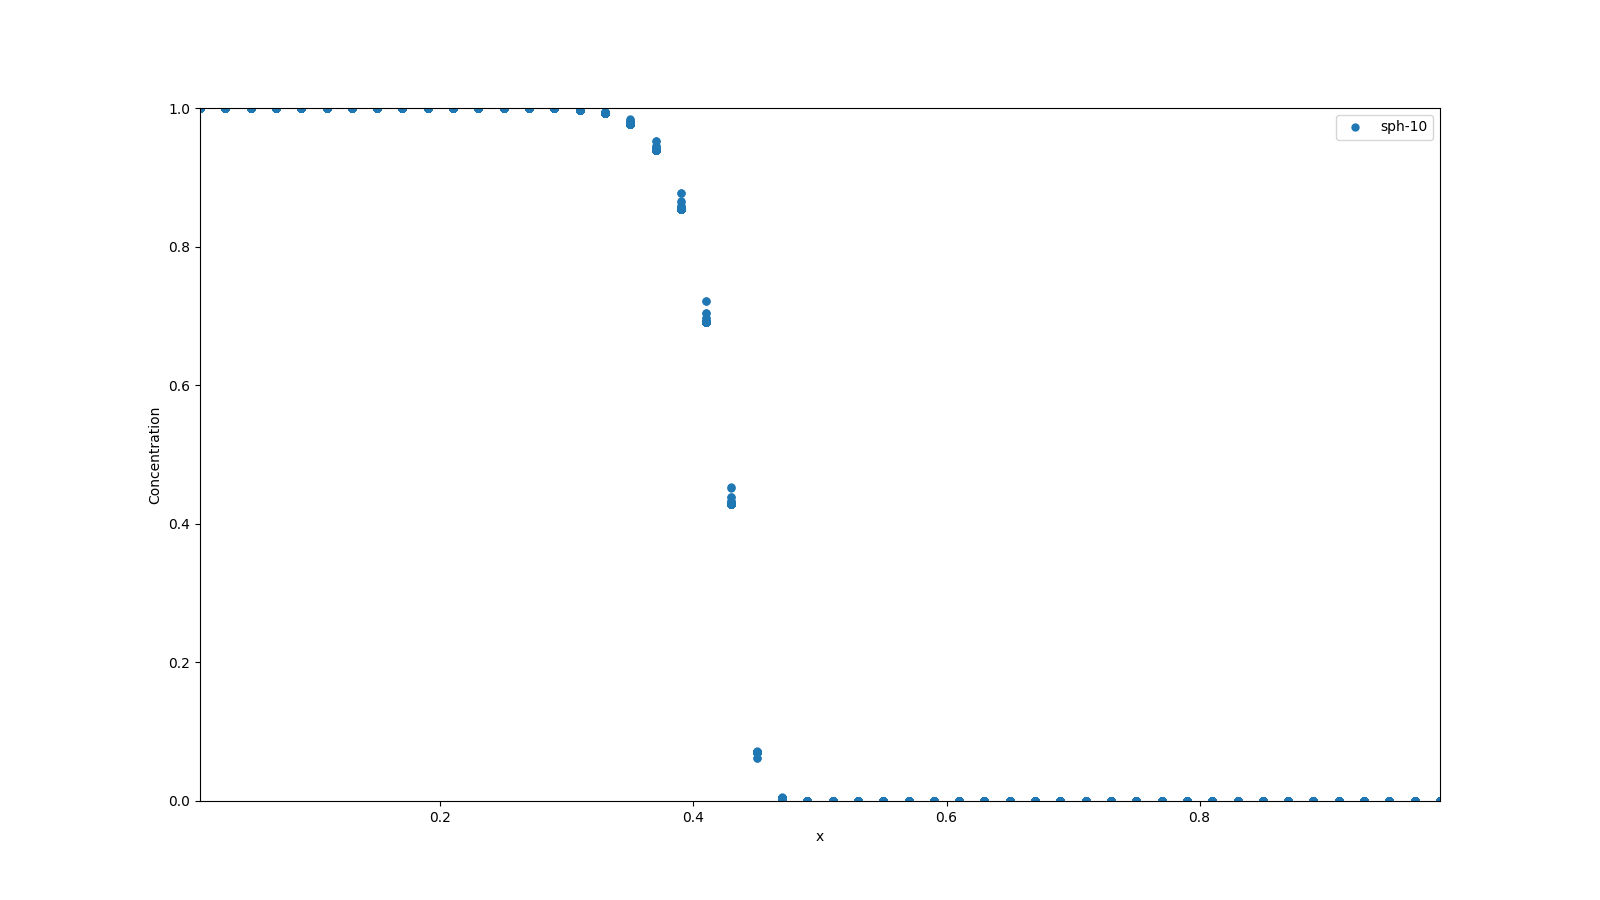
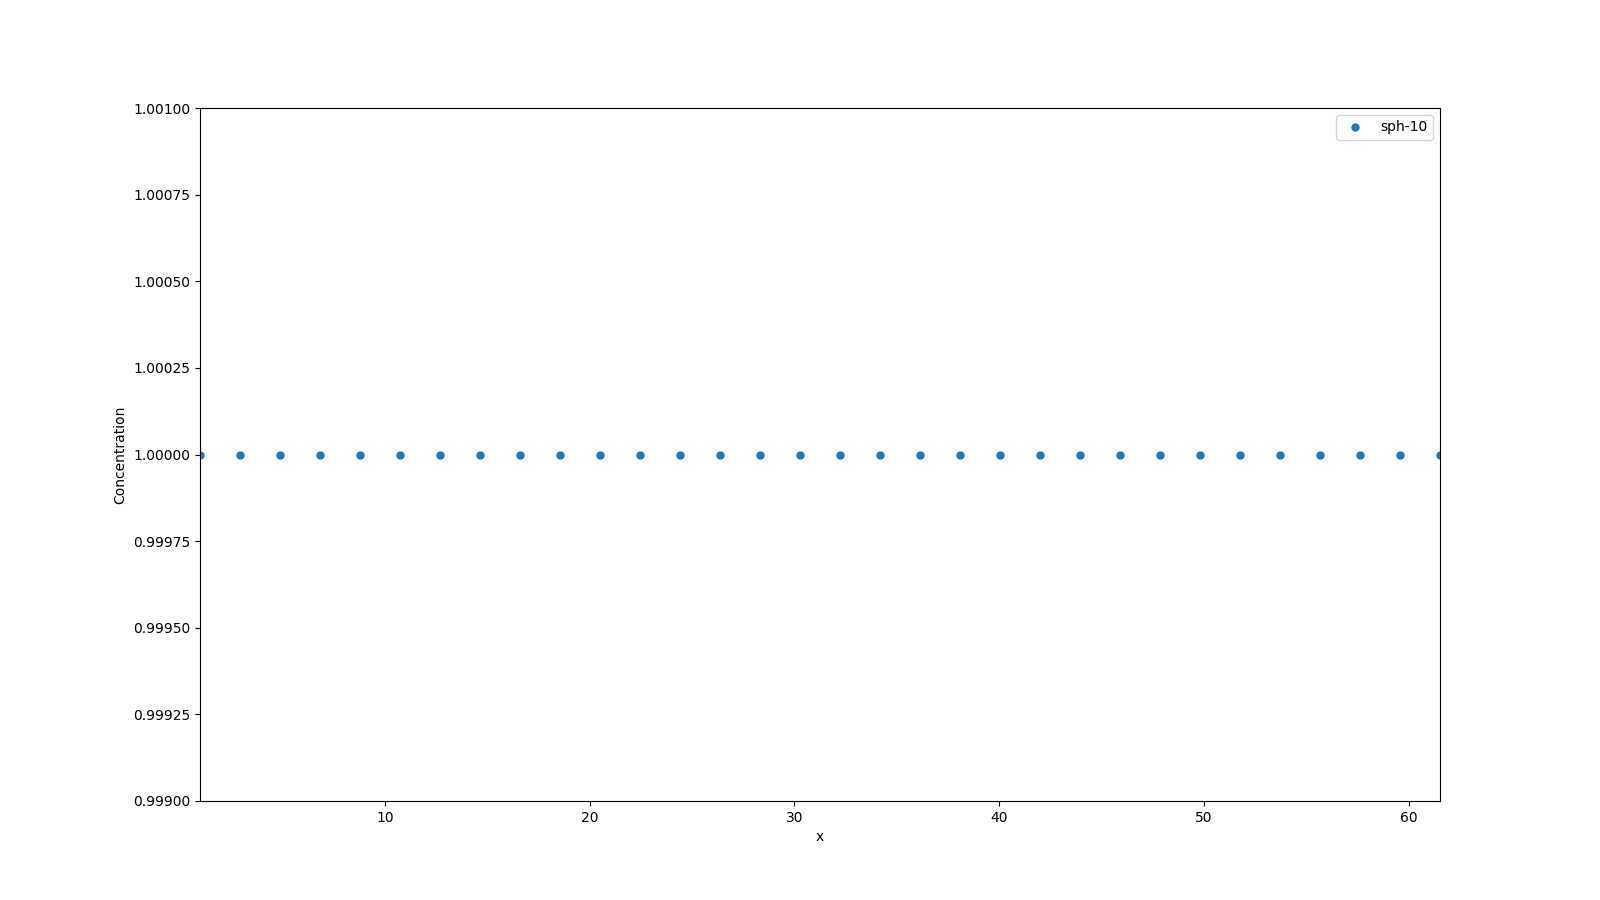
I'm losing my sanity...

diff --git a/fixed_reactive_surface/analytical.py b/fixed_reactive_surface/analytical.py
@@ -4,11 +4,11 @@ from scipy.optimize import brentq, fsolve
 import matplotlib.pyplot as plt
 
 # Parameters
-r1, r2 = 7, 30
+h = 0.03125
+r1, r2 = 3.0*h, 15.0*h
 Ceq, C0 = 0.0, 1.0
-D = 1
-d = 0.5
-k = 1.14
+D = 1.0e-3
+k = 1.4*8.0e-3
 Da = k*r2/D
 
 # Bessel function of the first kind
@@ -54,36 +54,37 @@ alphas = [x for x in A if x not in delA]
 
 # Now we can obtain the concentration
 xr = np.linspace(r1, r2, 10000)
-times = [235, 270]
+times = [40]
 
 for t in times:
     C = xr*0.0
     for alpha in alphas:
-        C += np.pi*np.exp(-(alpha**2)*t*k/(r2*Da))*(Da**2)*(J(0, alpha)**2)*B(xr, alpha)*(1 - Ceq/C0)/F(alpha)
+        C -= np.pi*np.exp(-(alpha**2)*t*k/(r2*Da))*(Da**2)*(J(0, alpha)**2)*B(xr, alpha)*(1 - Ceq/C0)/F(alpha)
 
-    C = 1.0 + (r1/r2)*Da*(1 - Ceq/C0)*np.log(xr/r2)/(1 + (r1/r2)*Da*np.log(r2/r1)) - C
+    C += 1.0 + (r1/r2)*Da*(1 - Ceq/C0)*np.log(xr/r2)/(1 + (r1/r2)*Da*np.log(r2/r1))
     
     # Plot the solution
-    plt.plot(xr, C, label="t={}".format(t))
+    plt.plot(xr/h, C, label="t={}".format(t))
 
-h = 0.015
-times = [10, 50]
-    
-for time in times:
+# Time series
+T = [5, 10, 50]
+# Size
+h = 0.03125
+r1 = 3.0*h
+for time in T:
     # read data from output
     data = np.loadtxt("dump_{}.last.xs".format(time), skiprows=9)
-
+    dx = data[0,2]
+    
     # Get only at the boundary
     N = len(data[:,2])
     x, y = [], []
     for i in range(N):
-        if (0.5 >= data[i,2]) and (0.1 <= data[i,2]):
-            x.append(data[i, 2]/h)
+        if (data[i,2] >= (0.5+r1)) and (abs(data[i,3]-0.5) <= (dx)):
+            x.append((data[i, 2]-0.5)/h)
             y.append(data[i, 5])
 
-    # Revert the x
-    x = x[::-1]
-    plt.scatter(x, y, linestyle='-', s=5, label="sph-{}".format(time))
+    plt.scatter(x, y, s=10, label="sph-{}".format(time))
     
 plt.legend(loc=4)
 plt.show()

diff --git a/fixed_reactive_surface/plot_graph.py b/fixed_reactive_surface/plot_graph.py
@@ -4,10 +4,11 @@ import matplotlib.pyplot as plt
 import itertools
 
 # Time series
-T = [10, 50]
+T = [5, 10, 50]
 
 # Size
-h = 0.015
+h = 0.03125
+r1 = 3.0*h
 
 # plot
 plt.figure(figsize=(16, 9))
@@ -20,25 +21,22 @@ marker = itertools.cycle(('o', 'v', '^', '<', '>', 's', '8', 'p'))
 for time in T:
     # read data from output
     data = np.loadtxt("dump_{}.last.xs".format(time), skiprows=9)
-
+    dx = data[0,2]
+    
     # Get only at the boundary
     N = len(data[:,2])
     x, y = [], []
     for i in range(N):
-        if (0.5 >= data[i,2]) and (0.1 <= data[i,2]):
-            x.append(data[i, 2]/h)
+        if (data[i,2] >= (0.5+r1)) and (abs(data[i,3]-0.5) <= (dx)):
+            x.append((data[i, 2]-0.5)/h)
             y.append(data[i, 5])
-
-    # Revert the x
-    x = x[::-1]
 
     color = next(ax._get_lines.prop_cycler)['color']
     plt.plot(x, y, linestyle='', markeredgecolor='none', marker=next(marker), color=color, label="sph-{}".format(time))
     
 plt.ylabel("Concentration")
-plt.xlim(np.min(x), np.max(x))
-plt.ylim(np.min(y), np.max(y))
 plt.xlabel("x")
 plt.legend()
-plt.savefig("results.png")
+plt.show()
+# plt.savefig("results.png")
 
